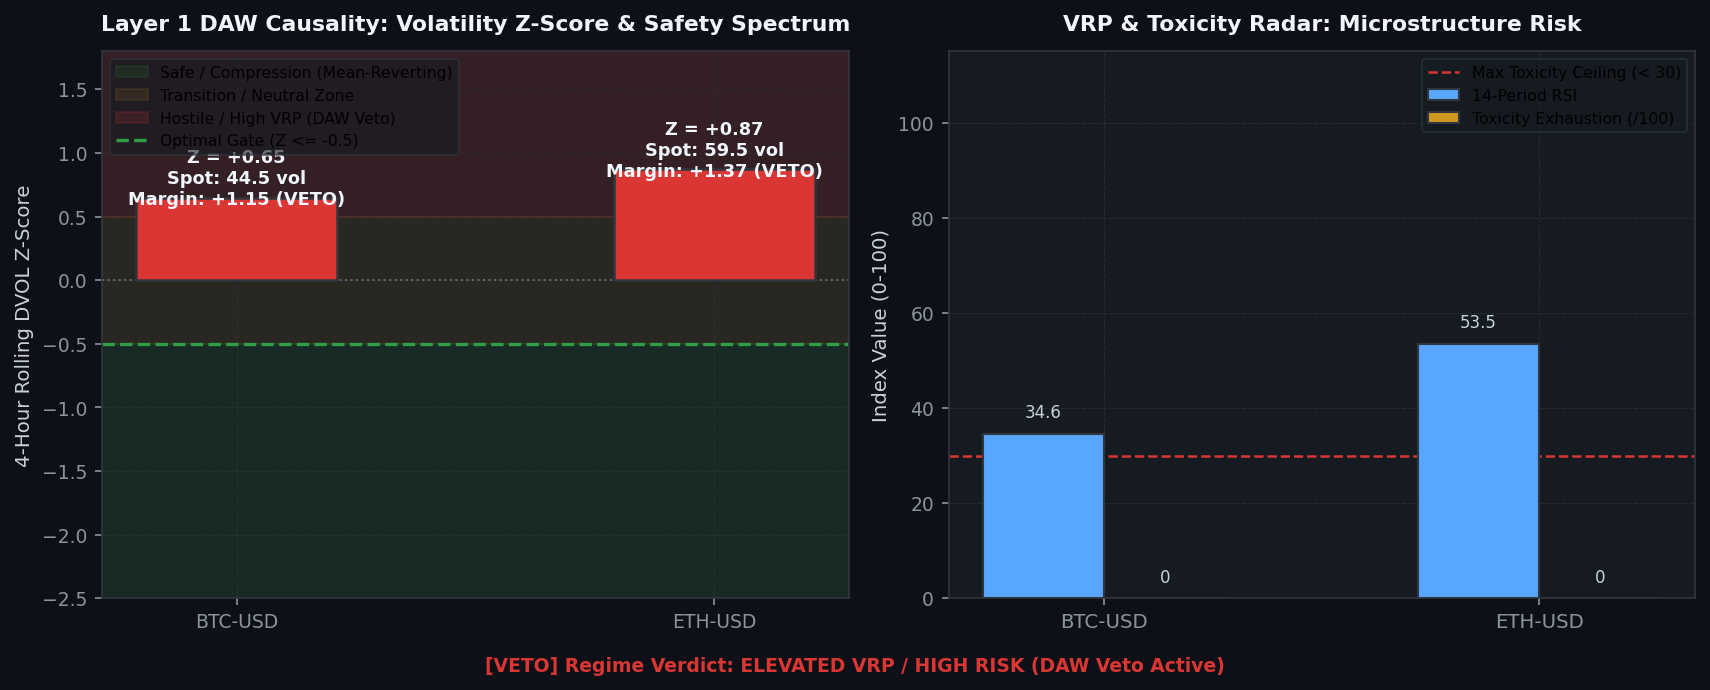
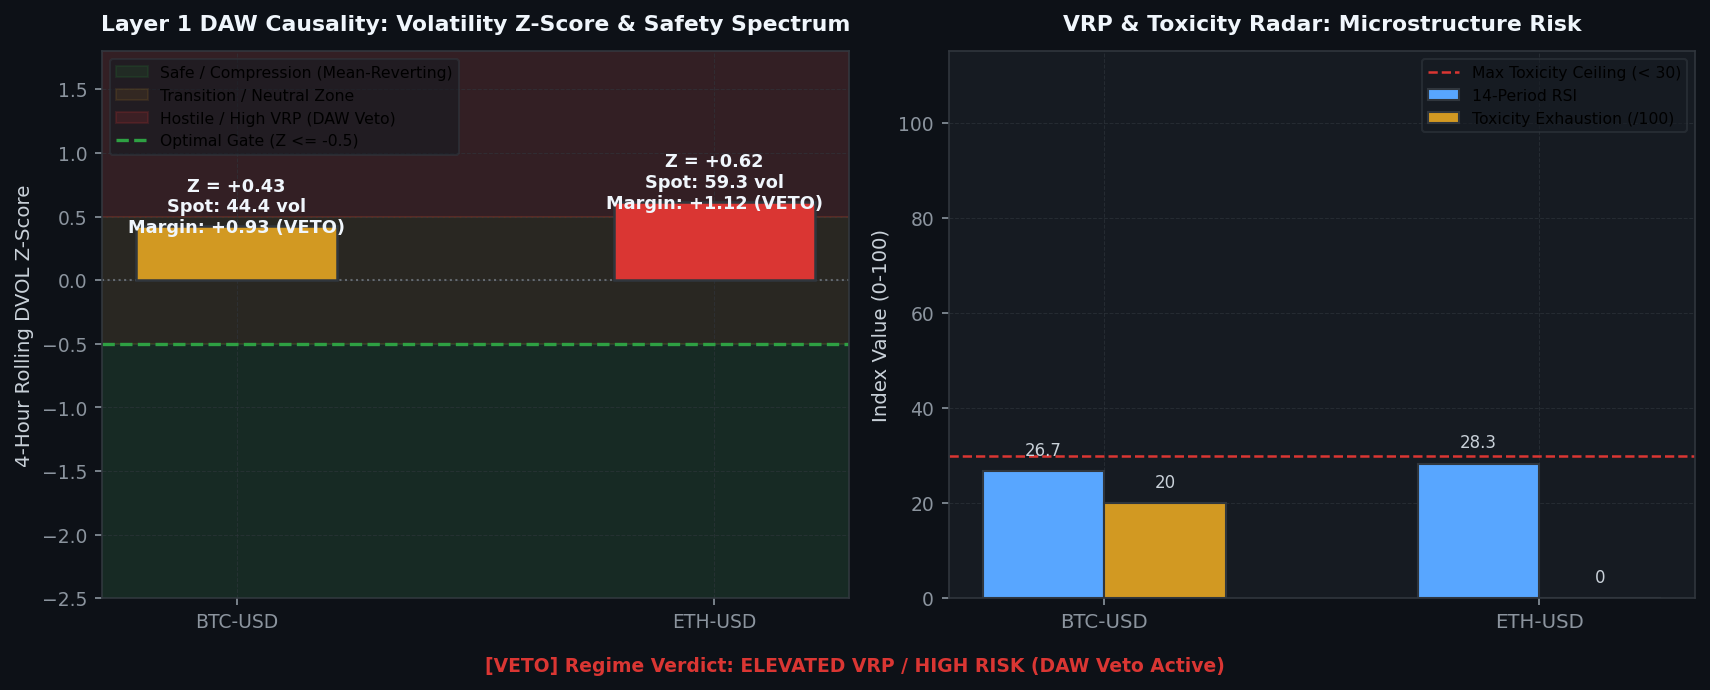
[coinbase] Hourly Status & Visual Intelligence Update: 2026-08-24 23:32:07

diff --git a/coinbase/data/hourly_status_report.md b/coinbase/data/hourly_status_report.md
@@ -3,7 +3,7 @@ layout: default
 ---
 
 # 🛡 Unified Trading System Hourly Status & Visual Intelligence
-> **Report Generated**: `2026-08-24 11:13:34 PM PDT (2026-08-25 06:13:34 UTC)`  
+> **Report Generated**: `2026-08-24 11:31:50 PM PDT (2026-08-25 06:31:50 UTC)`  
 > **System Health**: **🟡 DEGRADED / RESTRICTED** | **Win Rate**: `0.0%` | **Completed Trades**: `0`
 
 
@@ -15,13 +15,13 @@ Real-time Deribit implied volatility (DVOL) proxy tracking against mathematicall
 
 | Symbol | Proxy Oracle | Live Z-Score | Optimal Limit (YSP) | Safety Margin | Live VRP | Optimal VRP (YSP) | DAW Safety Verdict |
 | :--- | :--- | :--- | :--- | :--- | :--- | :--- | :--- |
-| `AVAX-USD` | DVOL_BTC | **+0.65** | **-0.50** | **+1.15** | **-5.05** | 5.0 | 🔴 DAW VETOED |
-| `ETH-USD` | DVOL_ETH | **+0.87** | **-0.50** | **+1.37** | **+9.87** | 5.0 | 🔴 DAW VETOED |
-| `ADA-USD` | DVOL_BTC | **+0.65** | **-0.50** | **+1.15** | **-5.04** | 5.0 | 🔴 DAW VETOED |
-| `DOGE-USD` | DVOL_BTC | **+0.65** | **-0.50** | **+1.15** | **-8.72** | 5.0 | 🔴 DAW VETOED |
-| `BTC-USD` | DVOL_BTC | **+0.65** | **-0.50** | **+1.15** | **-5.05** | 5.0 | 🔴 DAW VETOED |
-| `LINK-USD` | DVOL_BTC | **+0.65** | **-0.50** | **+1.15** | **-5.05** | 5.0 | 🔴 DAW VETOED |
-| `SOL-USD` | DVOL_BTC | **+0.65** | **-0.50** | **+1.15** | **-5.05** | 5.0 | 🔴 DAW VETOED |
+| `AVAX-USD` | DVOL_BTC | **+0.43** | **-0.50** | **+0.93** | **-5.18** | 5.0 | 🔴 DAW VETOED |
+| `ETH-USD` | DVOL_ETH | **+0.62** | **-0.50** | **+1.12** | **+9.79** | 5.0 | 🔴 DAW VETOED |
+| `ADA-USD` | DVOL_BTC | **+0.43** | **-0.50** | **+0.93** | **-5.10** | 5.0 | 🔴 DAW VETOED |
+| `DOGE-USD` | DVOL_BTC | **+0.43** | **-0.50** | **+0.93** | **-5.18** | 5.0 | 🔴 DAW VETOED |
+| `BTC-USD` | DVOL_BTC | **+0.43** | **-0.50** | **+0.93** | **-5.18** | 5.0 | 🔴 DAW VETOED |
+| `LINK-USD` | DVOL_BTC | **+0.43** | **-0.50** | **+0.93** | **-5.22** | 5.0 | 🔴 DAW VETOED |
+| `SOL-USD` | DVOL_BTC | **+0.43** | **-0.50** | **+0.93** | **-5.18** | 5.0 | 🔴 DAW VETOED |
 
 
 
@@ -37,16 +37,16 @@ We hereby certify that the mission-critical algorithmic data assets uploaded by 
 
 | Status | Data Asset | Freshness / State | Details / Timestamp |
 | :---: | :--- | :--- | :--- |
-| ✅ | **Go-List JSON** | Fresh (3.95h old) | 08-24 19:16 |
-| ✅ | **TimesFM Forecasts** | Fresh (2.38h old) | 08-24 20:50 |
-| ❌ | **Holding Times config** | STALE! (86.2h old) | Limit 28.2h |
-| ✅ | **BTC DVOL Cache** | Fresh (0.00h old) | 08-24 23:13 |
-| ✅ | **ETH DVOL Cache** | Fresh (0.00h old) | 08-24 23:13 |
-| ✅ | **Live Trading Telemetry** | Fresh (0.00h old) | 08-24 23:13 |
+| ✅ | **Go-List JSON** | Fresh (4.25h old) | 08-24 19:16 |
+| ✅ | **TimesFM Forecasts** | Fresh (2.69h old) | 08-24 20:50 |
+| ❌ | **Holding Times config** | STALE! (86.5h old) | Limit 28.5h |
+| ✅ | **BTC DVOL Cache** | Fresh (0.00h old) | 08-24 23:31 |
+| ✅ | **ETH DVOL Cache** | Fresh (0.00h old) | 08-24 23:31 |
+| ✅ | **Live Trading Telemetry** | Fresh (0.01h old) | 08-24 23:31 |
 
 <br>
 
-> **Utilization Certification**: ✅ **CERTIFIED.** The Guardian Watchdog is ONLINE and EC2 traders are actively querying the freshest MLOps data artifacts (Found 1936 recent read events).
+> **Utilization Certification**: ✅ **CERTIFIED.** The Guardian Watchdog is ONLINE and EC2 traders are actively querying the freshest MLOps data artifacts (Found 2020 recent read events).
 
 
 ---
@@ -55,7 +55,7 @@ Layer-by-layer tick evaluation waterfall and asset-specific performance tracking
 
 | Funnel Filter Layer | Total Rejections | % of Rejections |
 | :--- | :--- | :--- |
-| Tier 1: Macro Volatility Tensor Gate (Omega_macro) | `3,306` | **100.0%** |
+| Tier 1: Macro Volatility Tensor Gate (Omega_macro) | `3,577` | **100.0%** |
 | Tier 2: Unified Transport & Directional Engine | `0` | **0.0%** |
 | Tier 3: Continuous Hawkes-SFGK Pricer (HAS-Pricer) | `0` | **0.0%** |
 | System: Asset Cooldown Active | `0` | **0.0%** |
@@ -71,7 +71,7 @@ Layer-by-layer tick evaluation waterfall and asset-specific performance tracking
 | `ADA-USD` | 4 | 100.0% | 0 | 🟢 OK |
 | `ETH-USD` | 2 | 100.0% | 0 | 🟢 OK |
 | `AVAX-USD` | 4 | 100.0% | 0 | 🟢 OK |
-| `DOGE-USD` | 2 | 50.0% | 1 | 🟢 OK |
+| `DOGE-USD` | 3 | 66.7% | 0 | 🟢 OK |
 | `LINK-USD` | 5 | 100.0% | 0 | 🟢 OK |
 
 ---
@@ -88,7 +88,9 @@ Live balance sheet and open maker liquidity positions from Coinbase CDP.
 | `ADA-USD` | SELL | 0.22853 | `2beee26b-f88c-4929-8625-ec618ae9e32d` |
 | `AVAX-USD` | SELL | 7.708 | `7c4cd0f2-8347-4458-a3a5-8619324273a2` |
 | `ADA-USD` | SELL | 0.22818 | `7af97780-5e33-47e5-9caf-12bec2c8a7d5` |
-| `DOGE-USD` | SELL | 0.09292 | `0c0c6572-1a0b-4e31-beb5-c51ce7b6bed8` |
+| `ADA-USD` | SELL | 0.22728 | `bf03c112-f8fa-4a59-8cb1-e0b98a5b8ac2` |
+| `ETH-USD` | BUY | 2506.05 | `a388931d-fbaf-45b5-8cf1-ded471ec305e` |
+| `LINK-USD` | BUY | 11.779 | `aa4a5f84-f341-4c3e-a329-25c194e0b122` |
 
 
 
@@ -96,14 +98,14 @@ Live balance sheet and open maker liquidity positions from Coinbase CDP.
 ## 4. 🤖 Foundation Model MLOps & Pipeline Orchestration
 Weekly Algorithmic Mega Cap selection, Zero-shot multi-step forward return forecasts, and VSTEF parameter grid search status.
 
-- **TimesFM Forecast DB**: 🟢 Updated 2.4h ago (2026-08-24 08:50 PM PDT)
+- **TimesFM Forecast DB**: 🟢 Updated 2.7h ago (2026-08-24 08:50 PM PDT)
 - **Last Weekly VSTEF Optimization**: `2026-08-05 09:22:38 AM PDT`
-- **Next Scheduled VSTEF Run**: `2026-08-30 07:00:00 PM PDT (Monday 02:00 UTC)` (Countdown: **139.8h (5d 19h 46m)**)
+- **Next Scheduled VSTEF Run**: `2026-08-30 07:00:00 PM PDT (Monday 02:00 UTC)` (Countdown: **139.5h (5d 19h 28m)**)
 - **Promoted Parameter Gates**: $Z_{DVOL} \le -0.5$ | Holding Horizon $= 12\text{h}$
 
 ### Algorithmic Mega Cap Selection
 - **Last Run (Confirmation)**: `2026-08-24 07:16:47 PM PDT`
-- **Next Scheduled Run**: `2026-08-30 06:00:00 PM PDT (Monday 01:00 UTC)` (Countdown: **138.8h (5d 18h 46m)**)
+- **Next Scheduled Run**: `2026-08-30 06:00:00 PM PDT (Monday 01:00 UTC)` (Countdown: **138.5h (5d 18h 27m)**)
 - **Selected Mega Cap Universe**: `BTC, BCH, AVAX, ETH, ALGO, ADA, LTC, DOGE, AAVE, LINK, DOT, HBAR`
 
 
@@ -117,20 +119,20 @@ Visualizing the impact of the VSTEF (Volatility-Synchronized Stop-Tightening Exe
 ## 5. 🖥 Multi-Node Infrastructure & Watchdog Matrix
 ```text
 ================================================================================
-   🛡  SFGK FUNNEL GUARDIAN WATCHDOG (HFT ONLY) |  06:13:31 AM
-   CPU:  13.8%  |  MEM:   6.4% (14.4GB / 15.4GB Free)
+   🛡  SFGK FUNNEL GUARDIAN WATCHDOG (HFT ONLY) |  06:31:47 AM
+   CPU:  20.4%  |  MEM:   7.1% (14.3GB / 15.4GB Free)
 ================================================================================
 SERVICE              | PID      | STATUS          | RESTARTS | INFO
 --------------------------------------------------------------------------------
 L3 Consumer          | 3084610  | RUNNING         | -        | Continuous Websocket Feed
 MAO Daemon           | 3084662  | RUNNING         | -        | Oracle Yield Analysis
 Stable Farmer        | 3084664  | RUNNING         | -        | Volume Farmer
-Trader AVAX-USD      | 3105782  | RUNNING         | 57       | Evaluating Funnel/Polling Order
-Trader ETH-USD       | 3105373  | COOL-DOWN       | 62       | Next run in 3.8s
-Trader ADA-USD       | 3105374  | COOL-DOWN       | 39       | Next run in 3.8s
-Trader DOGE-USD      | 3092809  | RUNNING         | 14       | Evaluating Funnel/Polling Order
-Trader BTC-USD       | 3105475  | COOL-DOWN       | 68       | Next run in 9.2s
-Trader LINK-USD      | 3105783  | RUNNING         | 57       | Evaluating Funnel/Polling Order
+Trader AVAX-USD      | 3120814  | COOL-DOWN       | 96       | Next run in 14.8s
+Trader ETH-USD       | 3119671  | RUNNING         | 109      | Evaluating Funnel/Polling Order
+Trader ADA-USD       | 3114924  | RUNNING         | 70       | Evaluating Funnel/Polling Order
+Trader DOGE-USD      | 3120815  | COOL-DOWN       | 36       | Next run in 14.8s
+Trader BTC-USD       | 3120816  | COOL-DOWN       | 119      | Next run in 14.8s
+Trader LINK-USD      | 3120195  | RUNNING         | 94       | Evaluating Funnel/Polling Order
 ```
 
 ---

diff --git a/coinbase/data/visual_intelligence.md b/coinbase/data/visual_intelligence.md
@@ -4,7 +4,7 @@ title: Visual Intelligence Gallery
 ---
 
 # 📈 Visual Intelligence Gallery
-> **Generated:** `2026-08-24 23:13:51`
+> **Generated:** `2026-08-24 23:32:07`
 > **[Return to Main Status Report](./hourly_status_report.md)**
 
 This page visualizes the internal states, market profiles, and decision criteria of the active **3-Tier Fused Decision Engine** across all layers.
